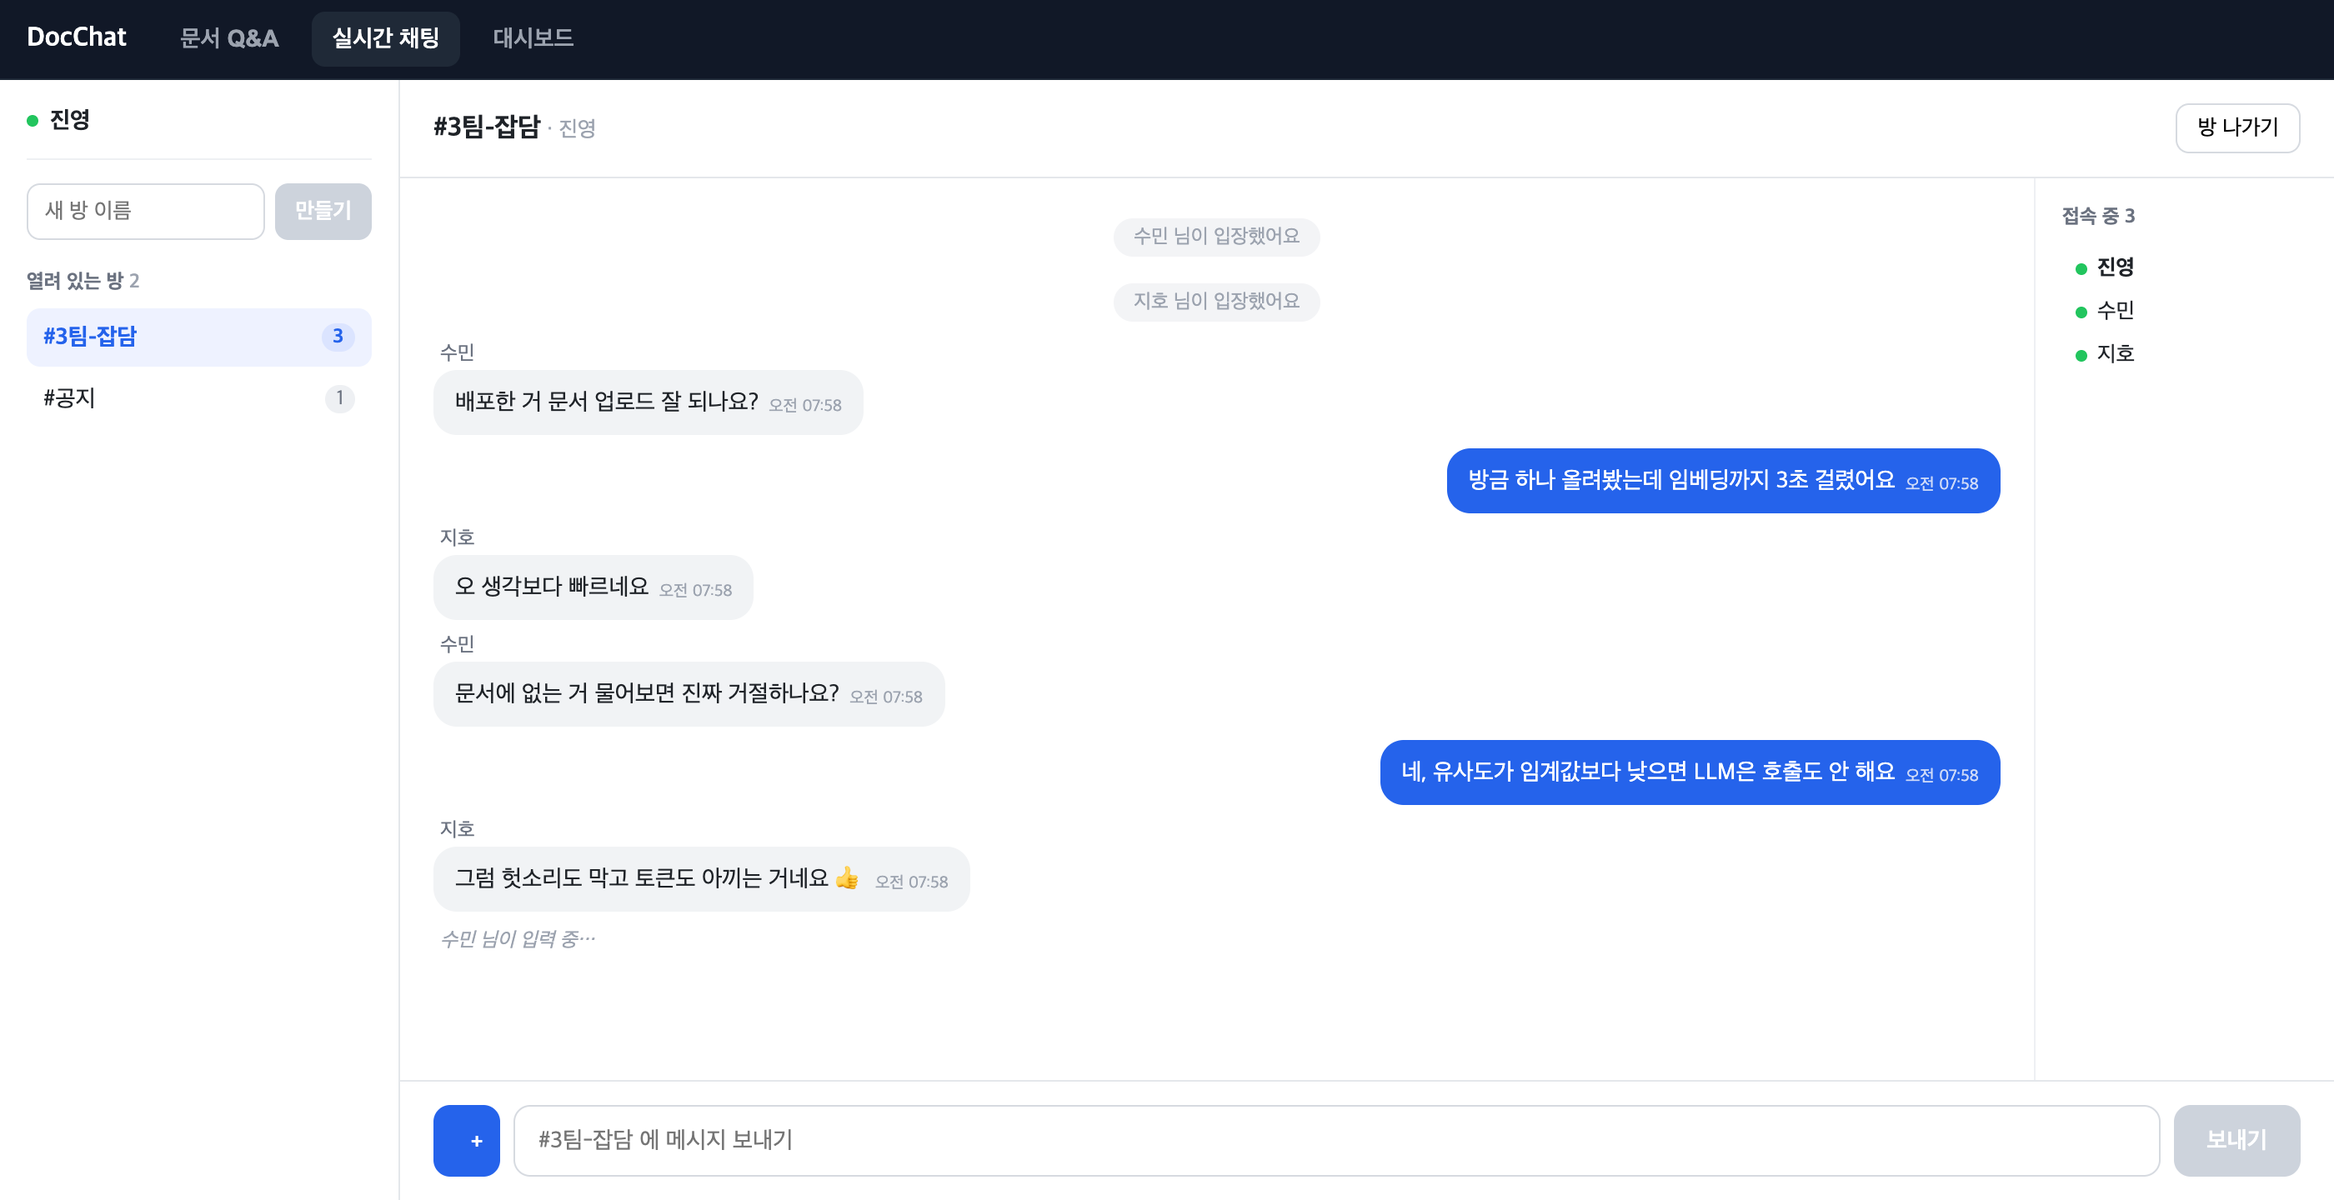
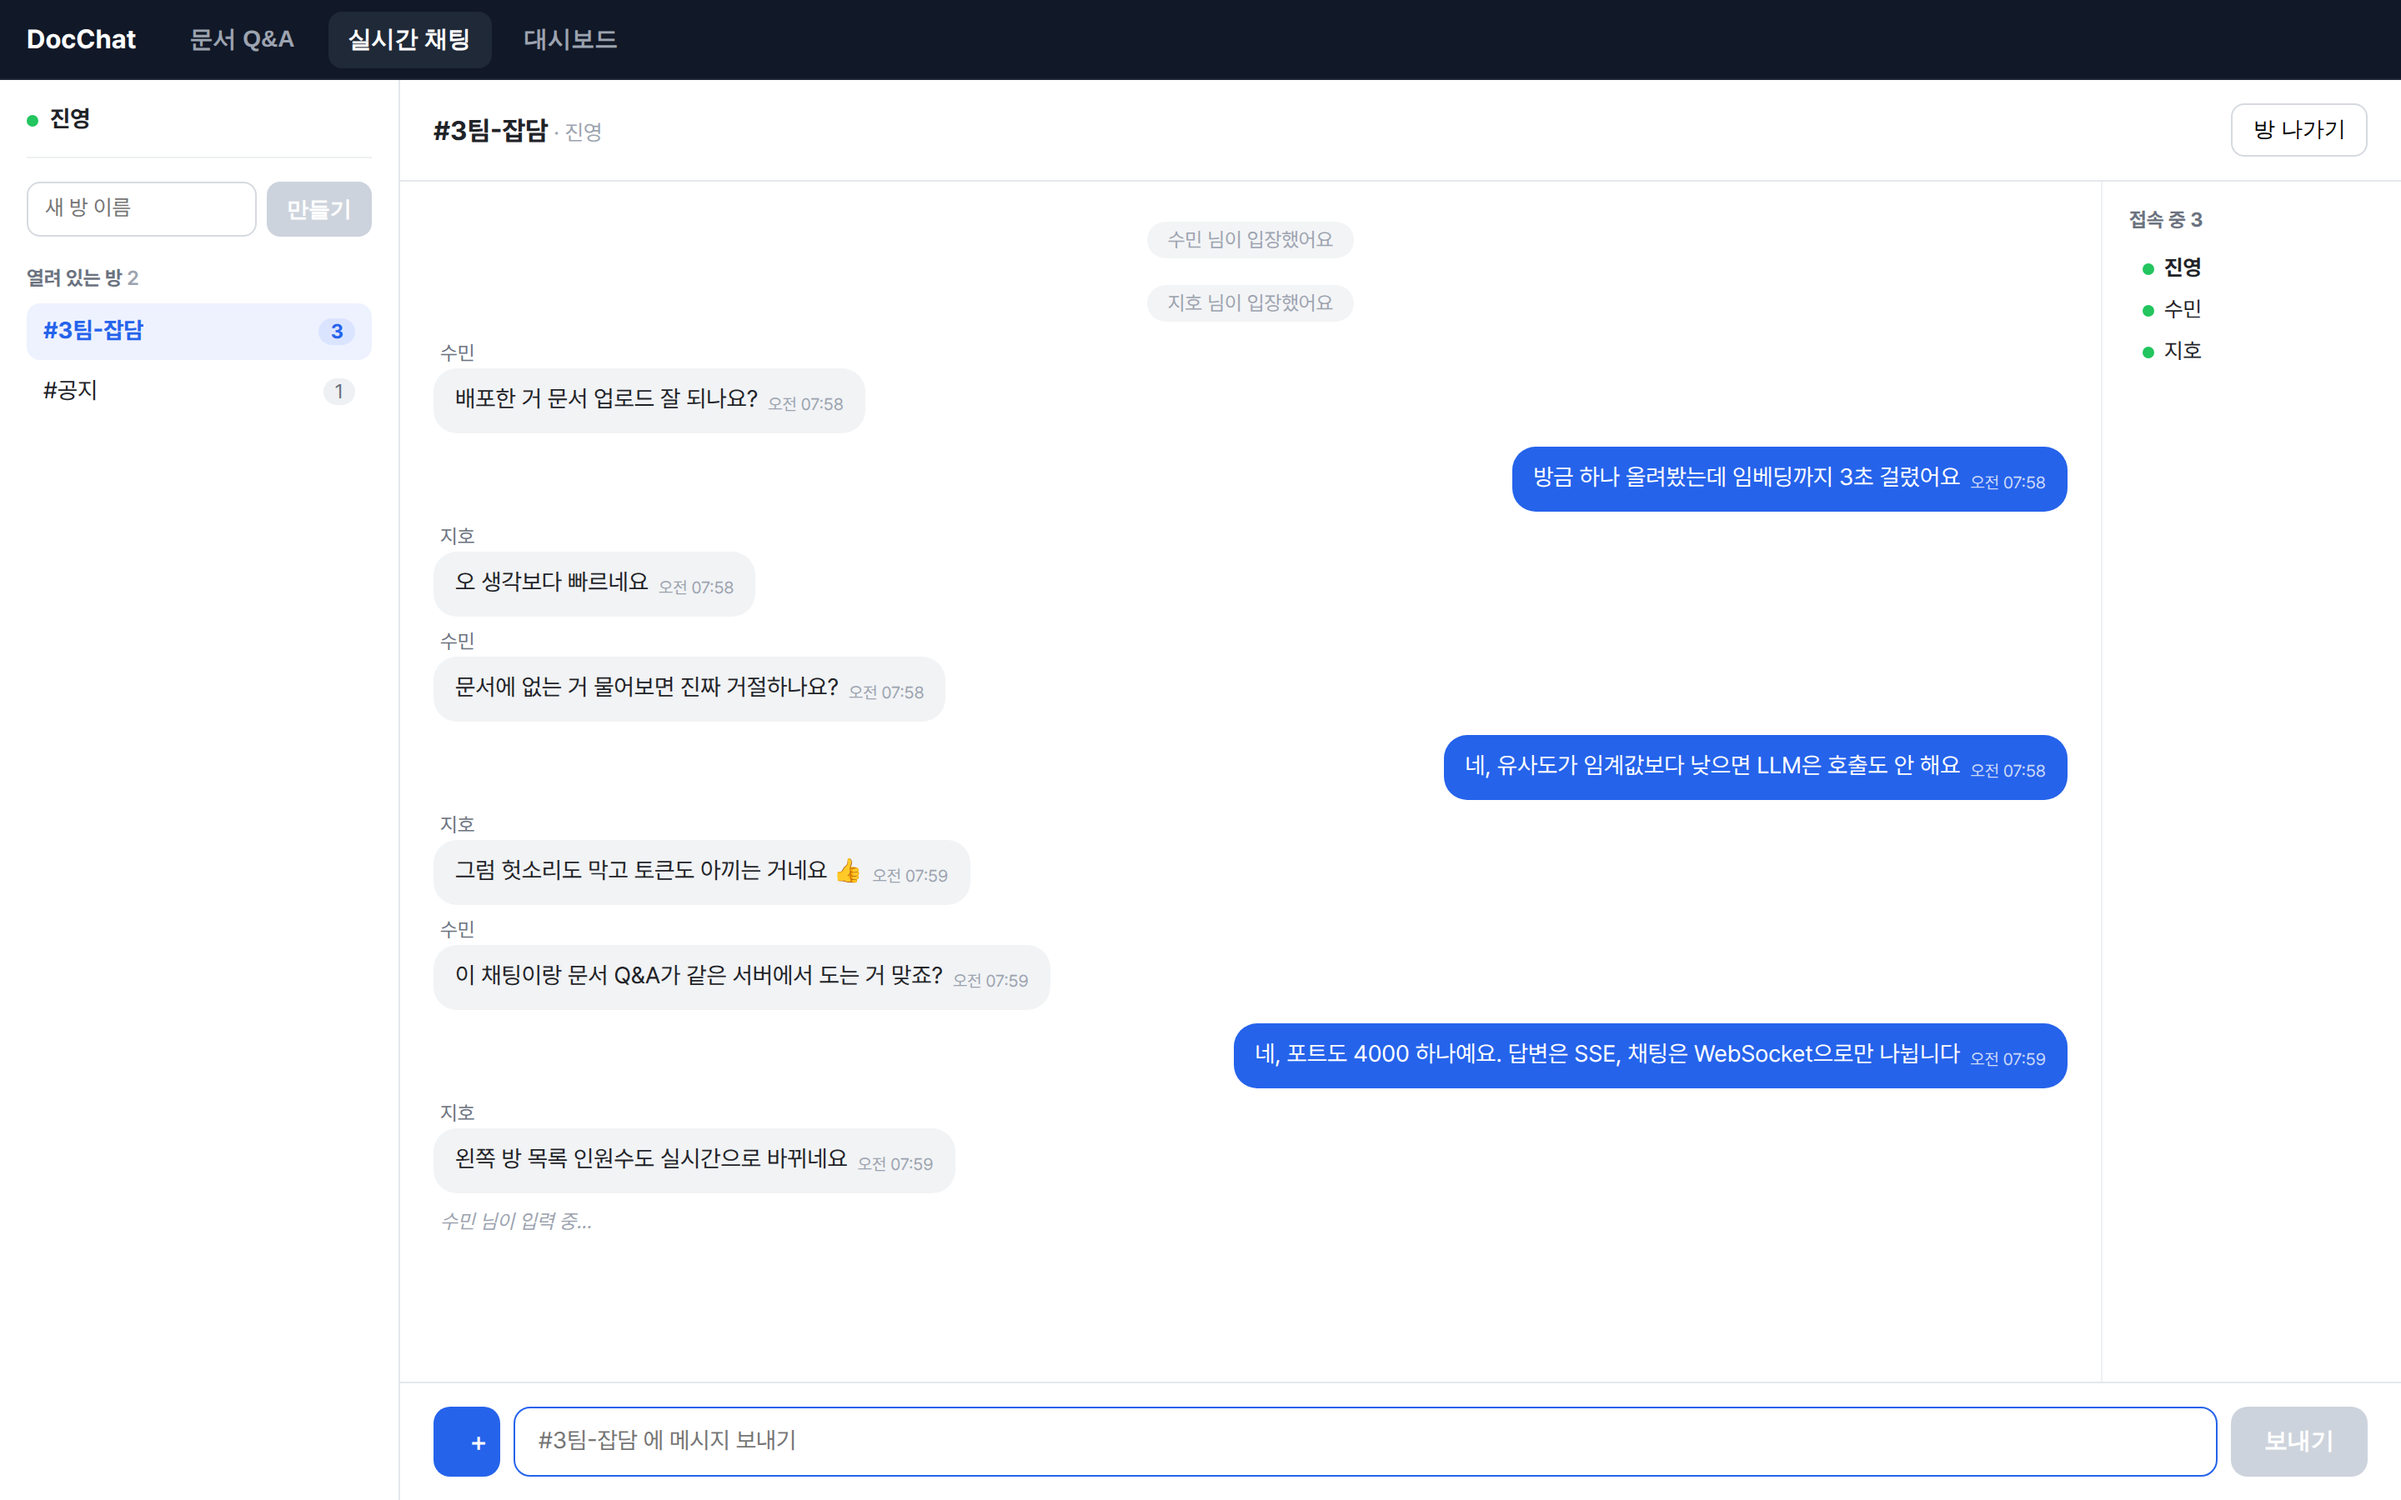
docs: 실시간 채팅 설명 추가 + 스크린샷 갱신
작업트리에 있던 문서 변경을 코드와 분리해 담음.

diff --git a/PORTFOLIO.ja.md b/PORTFOLIO.ja.md
@@ -31,6 +31,18 @@
 このときLLMは**呼び出しすらしない** — もっともらしい嘘(ハルシネーション)を防ぐと同時に、
 トークンとレイテンシを節約する。
 
+### 同じサーバーで動くリアルタイムチャット
+
+![リアルタイムチャット](docs/demo-chat.png)
+
+ニックネームを決めると、ロビーで部屋を作るか選んで入る。部屋一覧の人数、接続者、
+入室の通知、相手が入力中であることの表示まで、すべてソケット1本でやり取りする。
+部屋は空になれば消える — 誰もいない部屋を一覧に残す方法がないので、
+部屋の作成と入室を同じ操作にした。
+
+回答のトークンはSSE(一方向)、チャットはWebSocket(双方向1:N)と性質は異なるが、
+プロセスは1つだ。なぜ分けなかったかは下の[アーキテクチャ](#アーキテクチャ)に書いた。
+
 ### 負荷・障害対応ダッシュボード
 
 防御ロジックが「いつ発動したのか」を目で確認できなければ、障害時に判断ができない。

diff --git a/PORTFOLIO.md b/PORTFOLIO.md
@@ -30,6 +30,17 @@
 검색 최고 유사도가 임계값(0.62) 아래면 거절함. 이때 LLM은 **호출조차 하지 않음** —
 헛소리를 막는 동시에 토큰과 지연을 아낌.
 
+### 같은 서버에서 도는 실시간 채팅
+
+![실시간 채팅](docs/demo-chat.png)
+
+닉네임을 정하면 로비에서 방을 만들거나 골라 들어감. 방 목록의 인원 수, 접속자,
+입장 알림, 상대가 입력 중이라는 표시가 전부 소켓 하나로 오감. 방은 비면 사라짐 —
+아무도 없는 방을 목록에 남길 방법이 없어서, 방 생성과 입장을 같은 동작으로 뒀음.
+
+답변 토큰은 SSE(한 방향), 채팅은 WebSocket(양방향 1:N)이라 성질이 다르지만
+프로세스는 하나임. 왜 나누지 않았는지는 아래 [아키텍처](#아키텍처)에 적었음.
+
 ### 부하·장애 대응 대시보드
 
 방어 로직이 "언제 발동했는지" 눈으로 볼 수 없으면 장애 상황에서 판단할 수 없음.

diff --git a/README.ja.md b/README.ja.md
@@ -22,6 +22,12 @@ Gemini APIで作った。
 
 ドキュメントにない内容なら、でっち上げずに拒否する。このときLLMは呼び出しすらしない。
 
+![リアルタイムチャット](docs/demo-chat.png)
+
+同じ部屋に入った人同士でメッセージが行き交う。部屋の一覧・接続者・入室の通知・
+入力中の表示まで、ソケット1本で処理する。ドキュメントQ&A(SSE)と同じサーバー、
+同じポートで動く。
+
 ![LLM障害注入時のダッシュボード](docs/demo-dashboard-breaker.png)
 
 ダッシュボードからトラフィックの急増とLLM障害を直接注入し、防御レイヤー(Rate Limiter、

diff --git a/README.md b/README.md
@@ -21,6 +21,11 @@ WebSocket(양방향 1:N). 왜 나누지 않고 한 프로세스에 뒀는지는
 
 문서에 없는 내용이면 지어내지 않고 거절함. 이때 LLM은 호출조차 하지 않음.
 
+![실시간 채팅](docs/demo-chat.png)
+
+같은 방에 들어온 사람들끼리 메시지가 오감. 방 목록·접속자·입장 알림·입력 중 표시까지
+소켓 하나로 처리함. 문서 Q&A(SSE)와 같은 서버, 같은 포트에서 돎.
+
 ![LLM 장애 주입 시 대시보드](docs/demo-dashboard-breaker.png)
 
 대시보드에서 트래픽 폭주와 LLM 장애를 직접 주입하고, 방어 레이어(Rate Limiter,
